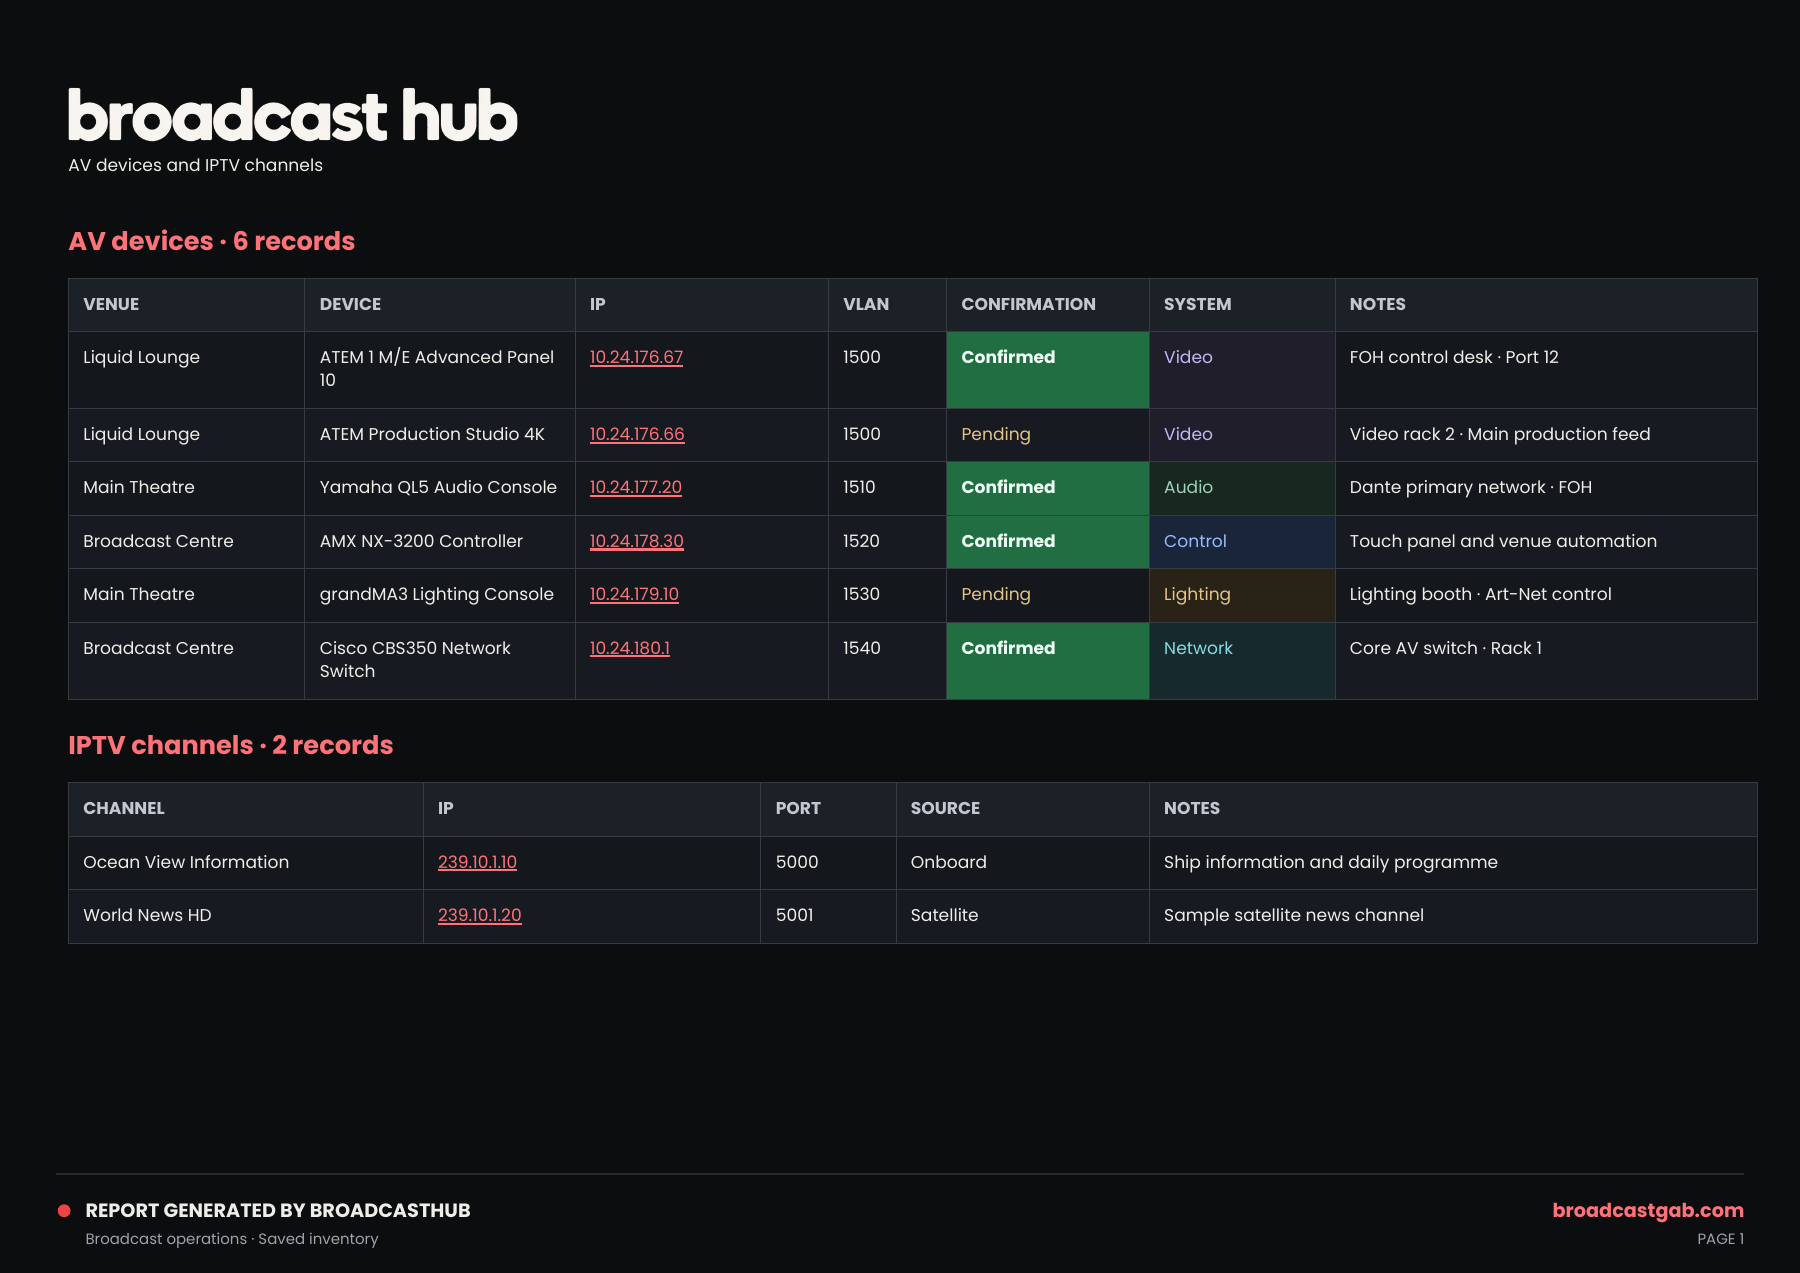
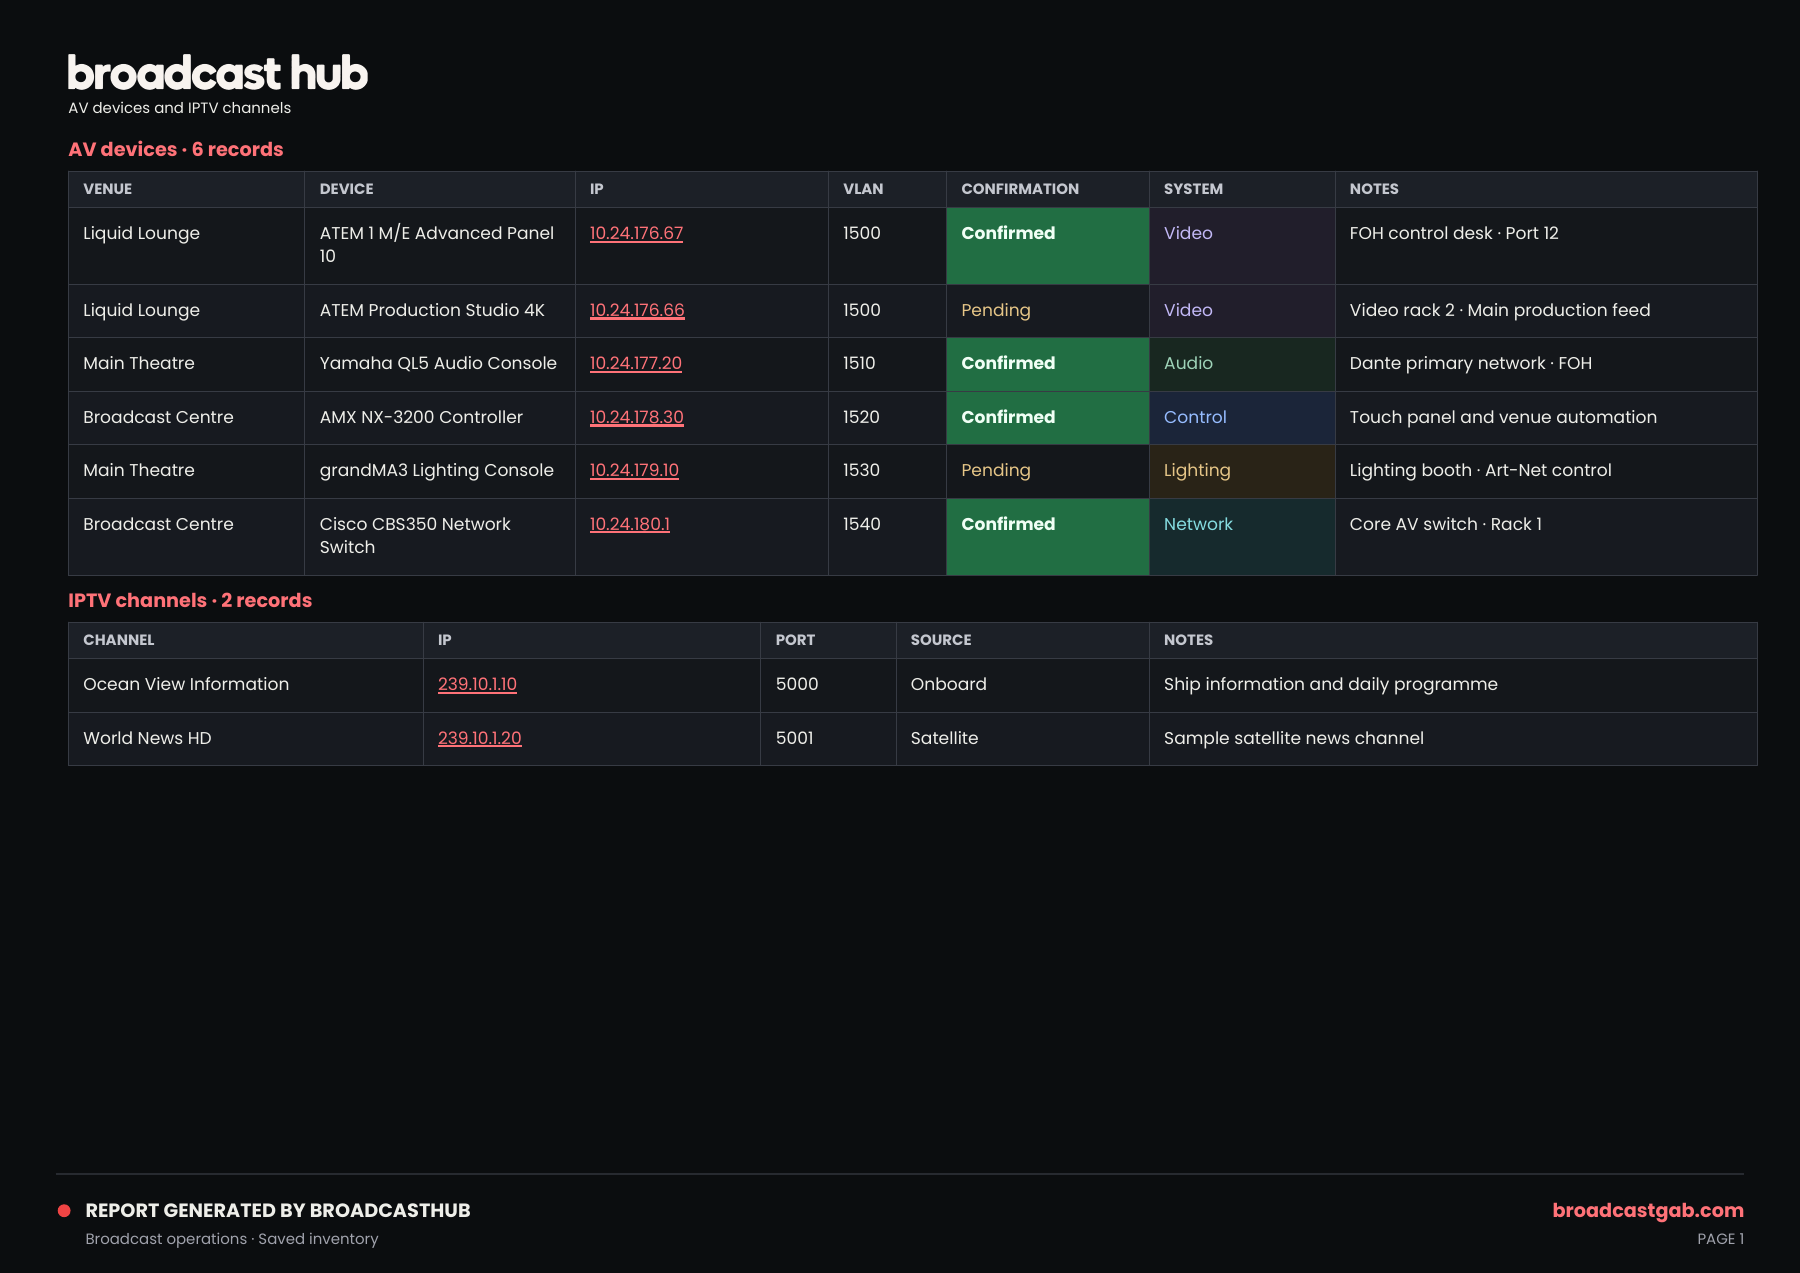
Compact PDF branding and headers to fit more device rows

diff --git a/exports.py b/exports.py
@@ -112,13 +112,15 @@ def pdf_report(title, sections):
     logo_bounds = logo_bounds or (0, 0, logo_width, logo_height)
     output = io.BytesIO()
     document = SimpleDocTemplate(output, pagesize=landscape(A4), leftMargin=26, rightMargin=26,
-                                 topMargin=30, bottomMargin=64, title=f'Broadcast Hub - {title}',
+                                 topMargin=18, bottomMargin=64, title=f'Broadcast Hub - {title}',
                                  author='Broadcast Hub')
     body = ParagraphStyle('HubBody', fontName='HubText', fontSize=8, leading=11, wordWrap='CJK', textColor=colors.HexColor('#EEEEE9'))
-    header = ParagraphStyle('HubHeader', parent=body, fontName='HubBold', textColor=colors.HexColor('#C4C7CF'))
+    header = ParagraphStyle('HubHeader', parent=body, fontName='HubBold', fontSize=7, leading=9,
+                            textColor=colors.HexColor('#C4C7CF'))
+    report_info = ParagraphStyle('HubInfo', parent=body, fontSize=7, leading=9)
     heading = ParagraphStyle('HubHeading', fontName='HubBold', fontSize=18, leading=24,
                              textColor=colors.HexColor('#EEEEE9'))
-    section_style = ParagraphStyle('HubSection', parent=heading, fontSize=12, leading=17, spaceBefore=14, spaceAfter=8, textColor=colors.HexColor('#FF7278'))
+    section_style = ParagraphStyle('HubSection', parent=heading, fontSize=9, leading=12, spaceBefore=6, spaceAfter=4, textColor=colors.HexColor('#FF7278'))
 
     def paragraph(value, style=body):
         return Paragraph(escape(clean_text(value if value is not None else '')).replace('\n', '<br/>'), style)
@@ -147,7 +149,7 @@ def pdf_report(title, sections):
     class BrandHeading(Flowable):
         def __init__(self):
             super().__init__()
-            self.width, self.height = 210, 36
+            self.width, self.height = 140, 22
 
         def draw(self):
             canvas = self.canv
@@ -155,13 +157,13 @@ def pdf_report(title, sections):
             scale = self.width / (right - left)
             canvas.saveState()
             clip = canvas.beginPath()
-            clip.rect(0, 6, self.width, (bottom - top) * scale)
+            clip.rect(0, 4, self.width, (bottom - top) * scale)
             canvas.clipPath(clip, stroke=0, fill=0)
-            canvas.drawImage(logo, -left * scale, 6 - (logo_height - bottom) * scale,
+            canvas.drawImage(logo, -left * scale, 4 - (logo_height - bottom) * scale,
                              width=logo_width * scale, height=logo_height * scale, mask='auto')
             canvas.restoreState()
 
-    story = [BrandHeading(), paragraph(title), Spacer(1, 8)]
+    story = [BrandHeading(), paragraph(title, report_info), Spacer(1, 3)]
     for name, labels, widths, records in sections:
         story.append(paragraph(f'{name} · {len(records)} records', section_style))
         table_rows = [[paragraph(label, header) for label in labels]]
@@ -176,7 +178,8 @@ def pdf_report(title, sections):
             ('GRID', (0,0), (-1,-1), .35, colors.HexColor('#373B44')),
             ('VALIGN', (0,0), (-1,-1), 'TOP'),
             ('LEFTPADDING', (0,0), (-1,-1), 7), ('RIGHTPADDING', (0,0), (-1,-1), 7),
-            ('TOPPADDING', (0,0), (-1,-1), 7), ('BOTTOMPADDING', (0,0), (-1,-1), 7)]))
+            ('TOPPADDING', (0,0), (-1,-1), 7), ('BOTTOMPADDING', (0,0), (-1,-1), 7),
+            ('TOPPADDING', (0,0), (-1,0), 4), ('BOTTOMPADDING', (0,0), (-1,0), 4)]))
         if 'SYSTEM' in labels:
             column = labels.index('SYSTEM')
             for index, record in enumerate(records, 1):
